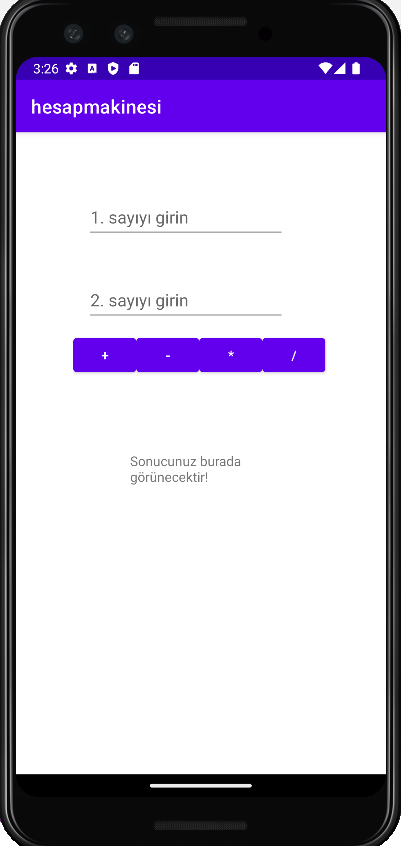
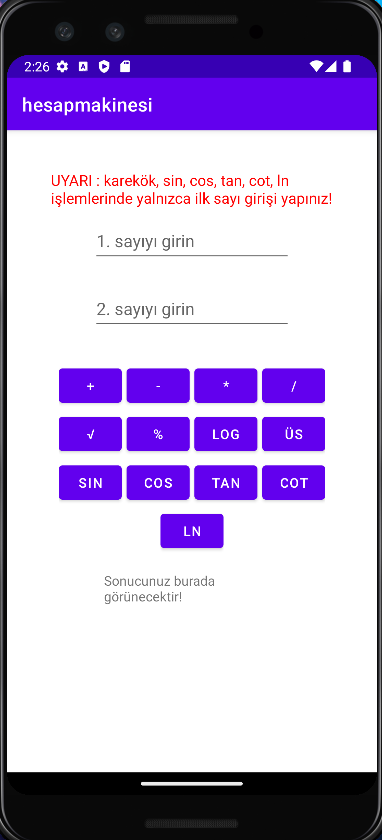
9 yeni işlem eklendi ve görünüm iyileştirildi!

Changed region(s): [[0.144, 0.3405, 0.8639, 0.7119], [0.0, 0.0, 1.0, 1.0], [0.144, 0.1857, 0.8639, 0.3095]]

diff --git a/app/src/main/java/com/tuncbillisim/hesapmakinesi/MainActivity.java b/app/src/main/java/com/tuncbillisim/hesapmakinesi/MainActivity.java
@@ -32,7 +32,7 @@ public class MainActivity extends AppCompatActivity {
             double number1 = Double.parseDouble(sayi1.getText().toString());
             double number2 = Double.parseDouble(sayi2.getText().toString());
             double sonucum = number1 + number2;
-            sonuc.setText("" + sonucum);
+            sonuc.setText(number1 + " + " + number2 + " = " + sonucum);
         }
     }
     public void cikarma(View view)
@@ -46,7 +46,7 @@ public class MainActivity extends AppCompatActivity {
             double number1 = Double.parseDouble(sayi1.getText().toString());
             double number2 = Double.parseDouble(sayi2.getText().toString());
             double sonucum = number1 - number2;
-            sonuc.setText("" + sonucum);
+            sonuc.setText(number1 + " - " + number2 + " = " + sonucum);
         }
     }
     public void carpma(View view)
@@ -60,7 +60,128 @@ public class MainActivity extends AppCompatActivity {
             double number1 = Double.parseDouble(sayi1.getText().toString());
             double number2 = Double.parseDouble(sayi2.getText().toString());
             double sonucum = number1 * number2;
-            sonuc.setText("" + sonucum);
+            sonuc.setText(number1 + " * " + number2 + " = " + sonucum);
+        }
+    }
+    public void mod(View view)
+    {
+        if (sayi1.getText().toString().matches("") || sayi2.getText().toString().matches("") || sayi1.getText().toString().matches("") && sayi2.getText().toString().matches(""))
+        {
+            sonuc.setText("Lütfen Sayı Giriniz!");
+        }
+        else
+        {
+            double number1 = Double.parseDouble(sayi1.getText().toString());
+            double number2 = Double.parseDouble(sayi2.getText().toString());
+            double sonucum = number1 % number2;
+            sonuc.setText(number1 + " % " + number2 + " = " + sonucum);
+        }
+    }
+    public void log(View View)
+    {
+        if (sayi1.getText().toString().matches("") || sayi2.getText().toString().matches("") || sayi1.getText().toString().matches("") && sayi2.getText().toString().matches(""))
+        {
+            sonuc.setText("Lütfen Sayı Giriniz!");
+        }
+        else
+        {
+            double number1 = Double.parseDouble(sayi1.getText().toString());
+            double number2 = Double.parseDouble(sayi2.getText().toString());
+            double sonucum = Math.log(number2) / Math.log(number1);
+            sonuc.setText(number1 + " logaritma " + number2 + " = " + sonucum);
+        }
+    }
+    public void us(View view)
+    {
+        if (sayi1.getText().toString().matches("") || sayi2.getText().toString().matches("") || sayi1.getText().toString().matches("") && sayi2.getText().toString().matches(""))
+        {
+            sonuc.setText("Lütfen Sayı Giriniz!");
+        }
+        else
+        {
+            double number1 = Double.parseDouble(sayi1.getText().toString());
+            double number2 = Double.parseDouble(sayi2.getText().toString());
+            double sonucum = Math.pow(number1, number2);
+            sonuc.setText(number1 + " üssü " + number2 + " = " + sonucum);
+        }
+    }
+    public void sin(View view)
+    {
+        if (sayi1.getText().toString().matches(""))
+        {
+            sonuc.setText("Lütfen Sayı Giriniz!");
+        }
+        else
+        {
+            double number1 = Double.parseDouble(sayi1.getText().toString());
+            double sonucum = Math.sin(number1);
+            sonuc.setText("sin(" + number1 + ") = " + sonucum);
+        }
+    }
+    public void cos(View view)
+    {
+        if (sayi1.getText().toString().matches(""))
+        {
+            sonuc.setText("Lütfen Sayı Giriniz!");
+        }
+        else
+        {
+            double number1 = Double.parseDouble(sayi1.getText().toString());
+            double sonucum = Math.cos(number1);
+            sonuc.setText("cos(" + number1 + ") = " + sonucum);
+        }
+    }
+    public void tan(View view)
+    {
+        if (sayi1.getText().toString().matches(""))
+        {
+            sonuc.setText("Lütfen Sayı Giriniz!");
+        }
+        else {
+            double number1 = Double.parseDouble(sayi1.getText().toString());
+            double sonucum = Math.tan(number1);
+            sonuc.setText("tan(" + number1 + ") = " + sonucum);
+        }
+    }
+    public void cot(View view)
+    {
+        if (sayi1.getText().toString().matches(""))
+        {
+            sonuc.setText("Lütfen Sayı Giriniz!");
+        }
+        else
+        {
+            double number1 = Double.parseDouble(sayi1.getText().toString());
+            double asdasd = Math.cos(number1);
+            double deneme = Math.sin(number1);
+            double sonucum = asdasd / deneme;
+            sonuc.setText("cot(" + number1 + ") = " + sonucum);
+        }
+    }
+    public void ln(View view)
+    {
+        if (sayi1.getText().toString().matches(""))
+        {
+            sonuc.setText("Lütfen Sayı Giriniz!");
+        }
+        else
+        {
+            double number1 = Double.parseDouble(sayi1.getText().toString());
+            double sonucum = Math.log10(number1);
+            sonuc.setText("ln(" + number1 + ") = " + sonucum);
+        }
+    }
+    public void karekok(View view)
+    {
+        if (sayi1.getText().toString().matches(""))
+        {
+            sonuc.setText("Lütfen Sayı Giriniz!");
+        }
+        else
+        {
+            double number1 = Double.parseDouble(sayi1.getText().toString());
+            double sonucum = Math.sqrt(number1);
+            sonuc.setText("Karekök " + number1 + " = " + sonucum);
         }
     }
     public void bolme(View view)
@@ -78,7 +199,7 @@ public class MainActivity extends AppCompatActivity {
             double number1 = Double.parseDouble(sayi1.getText().toString());
             double number2 = Double.parseDouble(sayi2.getText().toString());
             double sonucum = number1 / number2;
-            sonuc.setText("" + sonucum);
+            sonuc.setText(number1 + " / " + number2 + " = " + sonucum);
         }
     }
 }
